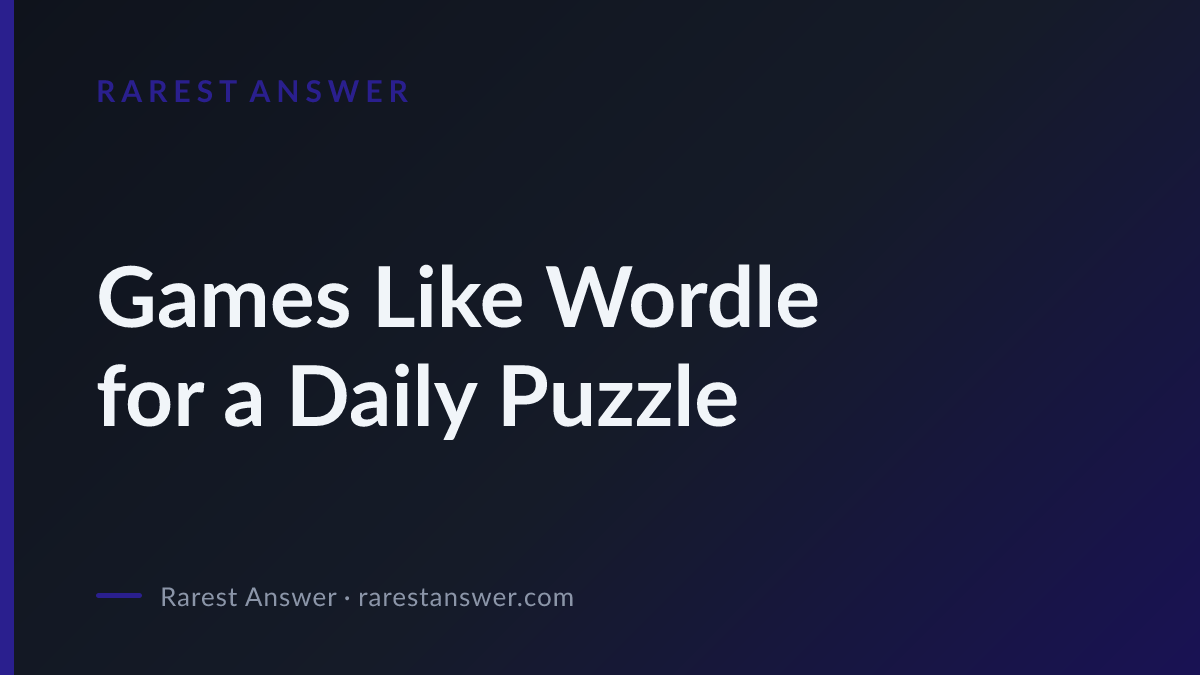
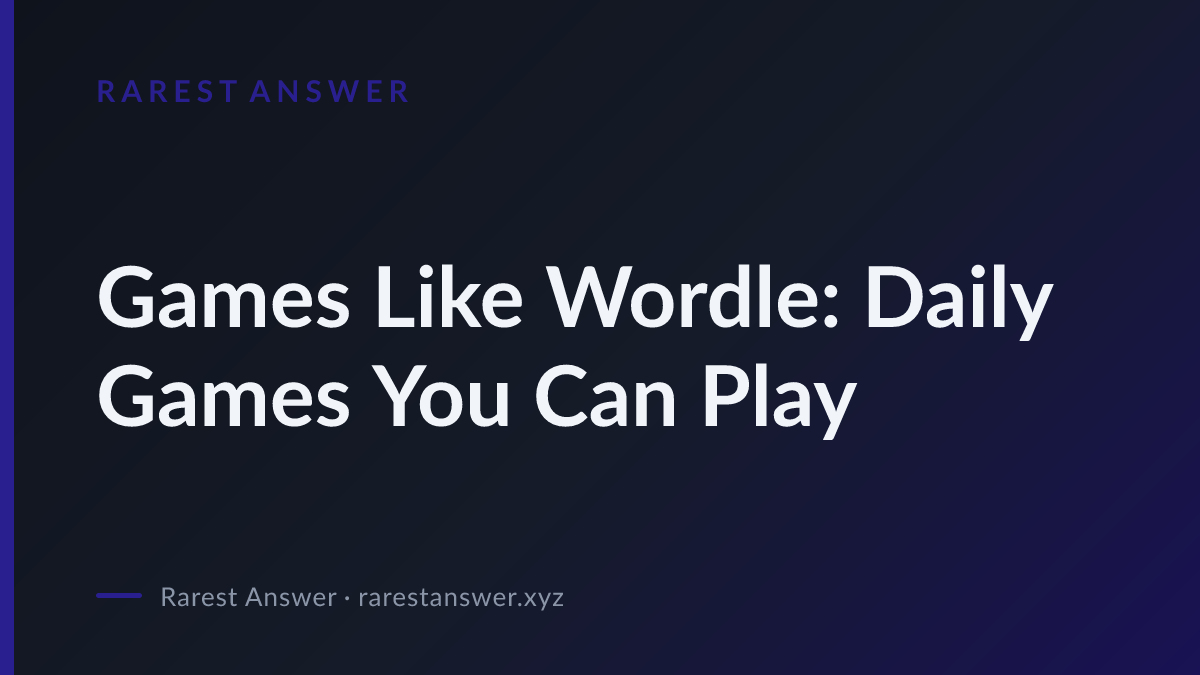
Switch domain to rarestanswer.xyz and regenerate covers

Changed region(s): [[0.0617, 0.5289, 0.7092, 0.6533], [0.6783, 0.3733, 0.8942, 0.4978], [0.4317, 0.8711, 0.4933, 0.9022]]

diff --git a/tests/apply-template.test.ts b/tests/apply-template.test.ts
@@ -276,8 +276,8 @@ describe('rewriteWranglerVars is value-aware (a re-run must not wipe the user en
     const values = [...section.matchAll(/^([A-Za-z_][A-Za-z0-9_]*)\s*=\s*"(.*)"\s*$/gm)].map(
       (m) => m[2],
     );
-    expect(values).toContain('https://rarestanswer.com');
-    const allowed = new Set(['', 'pathname', 'https://rarestanswer.com']);
+    expect(values).toContain('https://rarestanswer.xyz');
+    const allowed = new Set(['', 'pathname', 'https://rarestanswer.xyz']);
     for (const v of values) {
       expect(DEMO_VAR_VALUES.includes(v), `demo value still shipped: "${v}"`).toBe(false);
       expect(allowed.has(v), `unexpected wrangler value: "${v}"`).toBe(true);
@@ -1066,7 +1066,7 @@ describe('re-run identity detection (S12: re-run = confirm current, never demo d
     const raw = readFileSync(join(repoRoot, 'src/config/site.ts'), 'utf8');
     // Interface comments still use the old demo as an example. The assigned
     // fields are what a re-run reads back.
-    expect(raw).toContain("domain: 'rarestanswer.com'");
+    expect(raw).toContain("domain: 'rarestanswer.xyz'");
     expect(raw).toContain("name: 'Rarest Answer'");
     expect(raw).toMatch(/game:\s*\{\s*name:\s*'Rarest Answer'/);
     expect(raw).not.toMatch(/^\s*name:\s*'Anvil Quest/m);
@@ -1075,7 +1075,7 @@ describe('re-run identity detection (S12: re-run = confirm current, never demo d
     if (id) {
       expect(isDemoSiteTsIdentity(id)).toBe(false);
       expect(DEMO_DOMAINS).not.toContain(id.domain);
-      expect(id.domain).toBe('rarestanswer.com');
+      expect(id.domain).toBe('rarestanswer.xyz');
       expect(id.gameName).toBe('Rarest Answer');
     }
   });

diff --git a/tests/game-engine.test.ts b/tests/game-engine.test.ts
@@ -525,7 +525,7 @@ describe('share text and client payload', () => {
       score: 105,
       spotlightUsed: true,
       noTimer: true,
-      url: 'https://rarestanswer.com/',
+      url: 'https://rarestanswer.xyz/',
     });
     expect(text).toContain('Rarest Answer #318');
     expect(text).toContain('🟧⬜⬛');
@@ -533,12 +533,12 @@ describe('share text and client payload', () => {
     expect(text).toContain('Spotlight used');
     expect(text).toContain('No timer');
     expect(text).not.toContain('Tapanuli');
-    expect(sharePageUrl('https://rarestanswer.com/', 'daily')).toBe('https://rarestanswer.com/');
-    expect(sharePageUrl('https://rarestanswer.com', 'unlimited')).toBe(
-      'https://rarestanswer.com/unlimited/',
+    expect(sharePageUrl('https://rarestanswer.xyz/', 'daily')).toBe('https://rarestanswer.xyz/');
+    expect(sharePageUrl('https://rarestanswer.xyz', 'unlimited')).toBe(
+      'https://rarestanswer.xyz/unlimited/',
     );
-    expect(sharePageUrl('https://rarestanswer.com', 'category', 'animals')).toBe(
-      'https://rarestanswer.com/trivia/animals/',
+    expect(sharePageUrl('https://rarestanswer.xyz', 'category', 'animals')).toBe(
+      'https://rarestanswer.xyz/trivia/animals/',
     );
   });
 

diff --git a/src/config/site.ts b/src/config/site.ts
@@ -74,7 +74,7 @@ export const site: SiteConfig = {
   shortName: 'Rarest Answer',
   description:
     'Play Rarest Answer, a free daily trivia game where the rarest correct answer wins. Read guides and pages about similar daily games.',
-  domain: 'rarestanswer.com',
+  domain: 'rarestanswer.xyz',
   tagline: 'The daily trivia game where the rarest correct answer wins',
   legalNotice:
     'Rarest Answer is an independent daily trivia game. Pages about other games are unofficial and are not affiliated with those games.',
@@ -82,7 +82,7 @@ export const site: SiteConfig = {
   // renders it as a mailto link.
   contactEmail: '',
   social: {
-    official: 'https://rarestanswer.com',
+    official: 'https://rarestanswer.xyz',
   },
   game: {
     name: 'Rarest Answer',

diff --git a/scripts/build-prompts.ts b/scripts/build-prompts.ts
@@ -43,7 +43,7 @@ import {
 } from './data/prompt-defs';
 import { parseStrangerThingsWikitext, type ListedCharacter } from './data/wikipedia-characters';
 
-const UA = 'RarestAnswerBot/1.0 (contact@rarestanswer.com)';
+const UA = 'RarestAnswerBot/1.0 (contact@rarestanswer.xyz)';
 const SPARQL_URL = 'https://query.wikidata.org/sparql';
 const ROOT = join(dirname(fileURLToPath(import.meta.url)), '..');
 const CACHE_DIR = join(ROOT, '.cache', 'build-prompts');

diff --git a/src/lib/contact-email.ts b/src/lib/contact-email.ts
@@ -6,7 +6,7 @@
  */
 import { site } from '~/config/site';
 
-export const PLACEHOLDER_CONTACT_EMAIL = 'contact@rarestanswer.com';
+export const PLACEHOLDER_CONTACT_EMAIL = 'contact@rarestanswer.xyz';
 
 export function contactEmail(): string {
   const configured = site.contactEmail?.trim() ?? '';

diff --git a/README.md b/README.md
@@ -16,7 +16,7 @@ The same site publishes an index of prompts, guides, and unofficial pages about 
 | Other daily games | `/games/` |
 | Guides | `/guides/` |
 
-Domain placeholder: `rarestanswer.com`, via the `SITE_URL` environment variable. Do not hardcode the host in page code.
+Domain placeholder: `rarestanswer.xyz`, via the `SITE_URL` environment variable. Do not hardcode the host in page code.
 
 ## Local development
 
@@ -27,7 +27,7 @@ pnpm install
 pnpm dev
 ```
 
-Open http://localhost:4321/ . The dev server reads `SITE_URL` from the environment when it is set, and otherwise the site config uses `https://rarestanswer.com`.
+Open http://localhost:4321/ . The dev server reads `SITE_URL` from the environment when it is set, and otherwise the site config uses `https://rarestanswer.xyz`.
 
 ```bash
 pnpm build    # static output in dist/ ; postbuild indexes on-site search
@@ -56,7 +56,7 @@ The shipped catalog is **276 prompts**: geography 37, animals 51, food 33, sport
 - Output directory: `dist`
 - Set `NODE_VERSION` to `22` on the Pages project (Node 22.23.4 or newer)
 
-`[vars]` already sets `SITE_URL = "https://rarestanswer.com"`. Change the domain there, and keep the `https://` scheme. Analytics, ads, and comments stay off while their variables are blank.
+`[vars]` already sets `SITE_URL = "https://rarestanswer.xyz"`. Change the domain there, and keep the `https://` scheme. Analytics, ads, and comments stay off while their variables are blank.
 
 Local production preview of the built site:
 

diff --git a/docs/rarest-todo.md b/docs/rarest-todo.md
@@ -4,7 +4,7 @@ Append-only. One bullet per item. Prefix with your agent id. Do not delete anoth
 
 ## Open
 
-- **W1-META** — `contact@rarestanswer.com` is the address published on `/contact/`, `/privacy-policy/`, `/terms-of-service/`, `/copyright/`, and `/faq/`. It is a placeholder. Nobody has confirmed the mailbox receives mail.
+- **W1-META** — `contact@rarestanswer.xyz` is the address published on `/contact/`, `/privacy-policy/`, `/terms-of-service/`, `/copyright/`, and `/faq/`. It is a placeholder. Nobody has confirmed the mailbox receives mail.
 - **W1-META** — `src/data/prompts/great-ape-species.json` is still `source: "fixture"` (W0). Popularity figures in that file are placeholders, not live Wikipedia pageviews. `/llms.txt` prints each prompt's `source` field. `package.json` has no `build-prompts` script yet.
 - **W1-META** — `src/config/site.ts` `contactEmail` is still `""`. The contact page does not read it. That file is not owned by W1-META.
 - **W1-META** — `src/components/layout/LegalContent.astro` still has the pre-rebrand fan-wiki body (bosses, codes, Discord). English `/privacy-policy/`, `/terms-of-service/`, `/copyright/`, and `/contact/` no longer render it. `src/pages/about.astro` does not render it either. `src/pages/[locale]/[legal].astro` still would, and it generates no pages while `locales` is `['en']`.

diff --git a/docs/rarest-plan.md b/docs/rarest-plan.md
@@ -8,7 +8,7 @@
 - **Product**: "Rarest Answer" — a free daily trivia game where the *rarest correct answer wins*, plus an SEO content layer (rarest-answer lists, how-to guides, alternatives to Krillion & other daily games).
 - **Benchmark**: https://rarest.me/ . Goal = better UX + better UI + more search coverage. **Do not copy** its text, tier names (Flicker…Inferno), "Thermal" naming, or visuals. Own identity.
 - **Language**: English only (`en`, no locale prefix). Remove `ja` and every `zh` landing page.
-- **Domain**: placeholder `rarestanswer.com` via `SITE_URL` env (never hardcode).
+- **Domain**: placeholder `rarestanswer.xyz` via `SITE_URL` env (never hardcode).
 - **Stack**: this AnvilWiki template (Astro 7 static, Cloudflare Pages). **No React/Vue/Svelte** — game UI is Astro + vanilla TypeScript (`<script>` modules), `<dialog>`, CSS. All colors via CSS variables. Icons = lucide via astro-icon. No emoji in UI chrome (share text may use colored squares — that is output text, not UI).
 
 ## 1. 关键词 → 页面映射 / Keyword → Page map (MUST all be covered)
